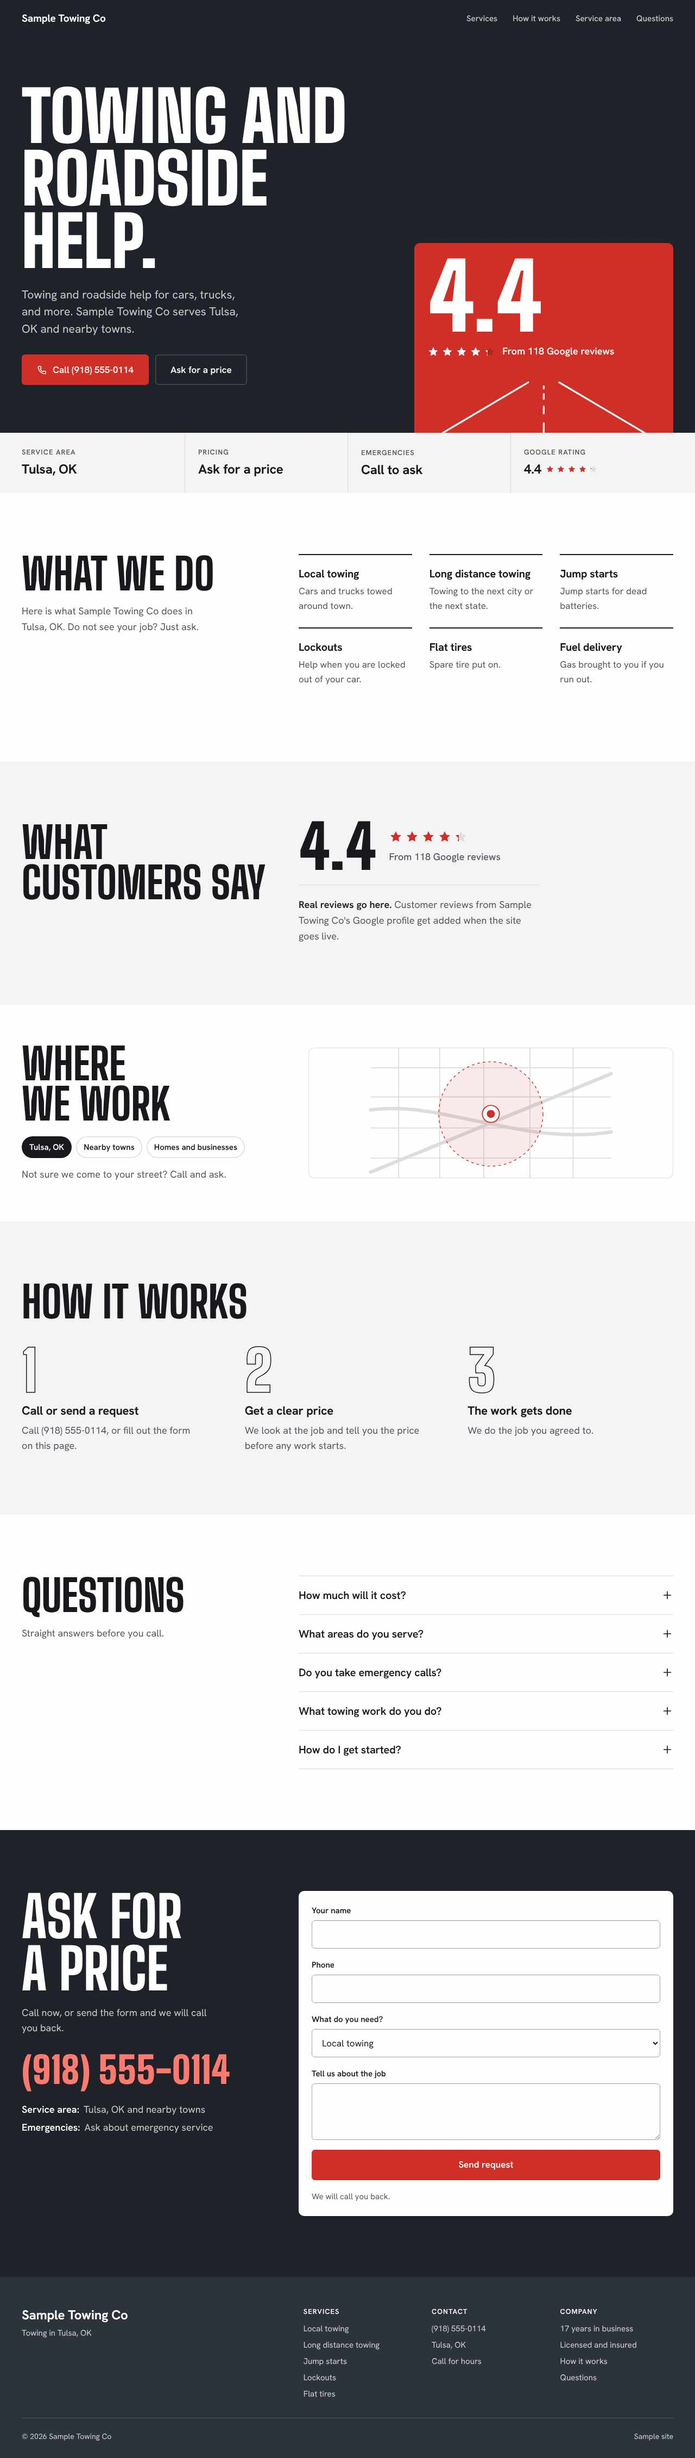
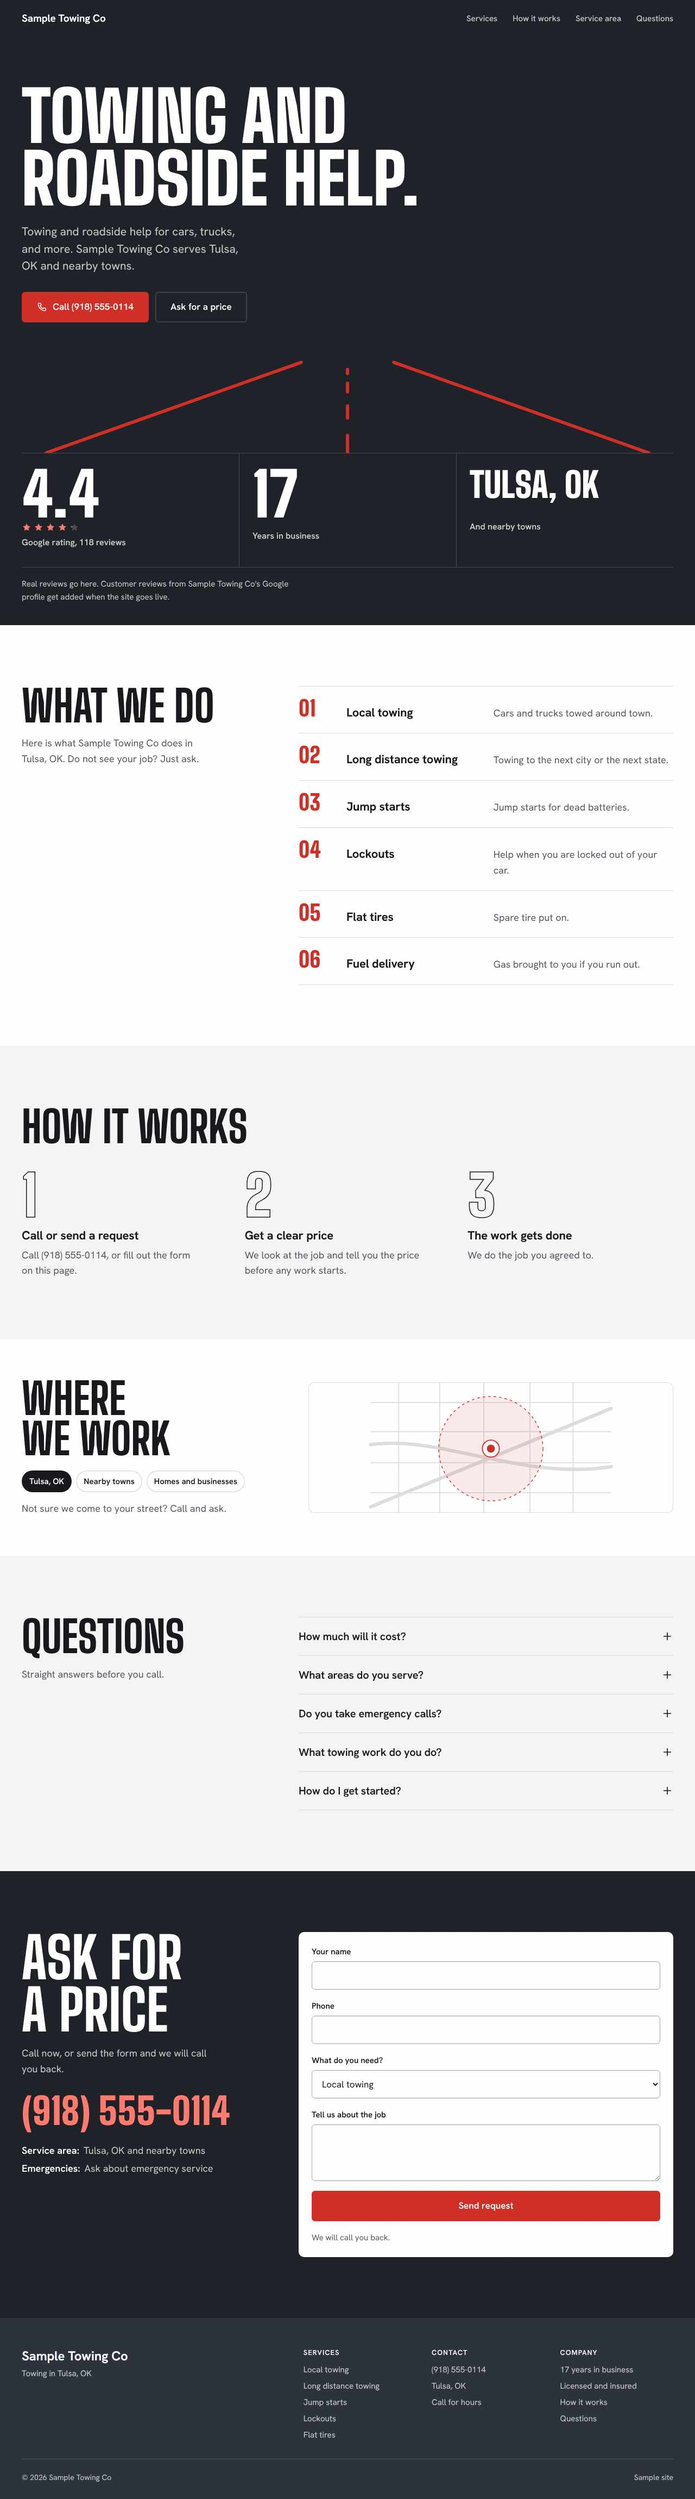
Sample Site Maker: call bar hidden on first screen, ledger layout for towing and junk, rating shown once
The phone call bar is now hidden by default in CSS and only slides in
after the hero call button scrolls away, so the first screen shows one
call button with or without JavaScript. New ledger layout (stat figures
under a full-width road or trade drawing, numbered service rows, no
trust bar) for towing and junk removal. The rating is shown in one place
only. Tests add viewport-only 375x667 first-screen checks (with and
without JavaScript) and a rating-shown-once check.

Claude-Session: https://claude.ai/code/session_01Cu4Qz6VVRtcxi4Hcn3ayhX

diff --git a/sitemaker/maker.html b/sitemaker/maker.html
@@ -185,7 +185,7 @@ details.lead[open]{display:grid;gap:10px}
 // Each trade: label, noun (what the business is called), icon (inline SVG
 // inner markup, 24x24, stroke-based), headline + sub copy, default theme,
 // line (the trade's signature line drawing for the hero, viewBox 0 0 1200 300),
-// layout (hero and section layout: band, split or stat), fill (draw the line
+// layout (hero and section layout: band, split, stat or ledger), fill (draw the line
 // as a solid shape), prompt (a Higgsfield prompt for a hero picture: no people, no text),
 // optional freeEstimates: false (turns that default off; 24/7 is off for
 // every trade), words to match a lead's category, and
@@ -498,7 +498,7 @@ const TRADES = {
     sub: "Junk, furniture, and debris removal for homes and businesses.",
     theme: "navy",
     line: "M300 270 H700 V170 H300 Z M380 170 V90 H620 V170 M760 270 H1000 V200 H760 Z",
-    layout: "stat",
+    layout: "ledger",
     prompt: "An empty, clean, swept garage with a bare concrete floor and the door open, bright daylight. Wide 16:9 photo, natural light, calm and clean, with open, darker space on the left side for a headline. No people, no faces, no hands, no text, no letters, no logos, no signs, no watermarks, no vehicles with writing.",
     emergency: false,
     freeEstimates: false,
@@ -547,7 +547,7 @@ const TRADES = {
     sub: "Towing and roadside help for cars, trucks, and more.",
     theme: "steel",
     line: "M80 300 L520 40 M1120 300 L680 40 M600 300 V250 M600 200 V165 M600 125 V100 M600 72 V60",
-    layout: "stat",
+    layout: "ledger",
     prompt: "An empty two-lane highway at dusk with soft road lights, a long straight road toward the horizon, no vehicles. Wide 16:9 photo, natural light, calm and clean, with open, darker space on the left side for a headline. No people, no faces, no hands, no text, no letters, no logos, no signs, no watermarks, no vehicles with writing.",
     emergency: false,
     freeEstimates: false,
@@ -712,6 +712,7 @@ const ICON_PLUS = '<path d="M12 5v14M5 12h14"/>';
 // Section order and style per layout, so trades do not look like clones.
 const LAYOUTS = {
   band: { order: ["services", "process", "reviews", "area", "faq"], services: "list", trust: "dark" },
+  ledger: { order: ["services", "process", "area", "faq"], services: "numbered", trust: null },
   split: { order: ["process", "services", "reviews", "faq", "area"], services: "columns", trust: "paper" },
   stat: { order: ["services", "reviews", "area", "process", "faq"], services: "columns", trust: "tint" },
 };
@@ -754,18 +755,16 @@ function generateSite(form) {
     ["Pricing", d.freeEstimates ? "Free estimates" : "Ask for a price"],
     ["Emergencies", d.emergency ? "Open 24/7" : "Call to ask"],
   ];
-  if (d.rating) cells.push(["Google rating", `${d.rating.toFixed(1)} ${stars(d.rating, 16)}`, true]);
-  else if (d.years) cells.push(["In business", `${d.years} year${d.years === 1 ? "" : "s"}`]);
+  if (d.years) cells.push(["In business", `${d.years} year${d.years === 1 ? "" : "s"}`]);
   else if (d.insured) cells.push(["Coverage", "Licensed and insured"]);
   else cells.push(["Phone", d.phone ? phoneShow : "Call us"]);
-  const trust = `<section class="trust trust-${L.trust}" aria-label="At a glance"><div class="wrap"><dl>${cells.map(([k, v, raw]) => `<div class="cell rv"><dt>${k}</dt><dd>${raw ? v : esc(v)}</dd></div>`).join("")}</dl></div></section>`;
+  const trust = !L.trust ? "" : `<section class="trust trust-${L.trust}" aria-label="At a glance"><div class="wrap"><dl>${cells.map(([k, v, raw]) => `<div class="cell rv"><dt>${k}</dt><dd>${raw ? v : esc(v)}</dd></div>`).join("")}</dl></div></section>`;
 
   // Hero
   let stat;
-  if (d.rating) stat = [d.rating.toFixed(1), stars(d.rating, 22) + `<span>${d.reviews ? `From ${d.reviews.toLocaleString("en-US")} Google reviews` : "Google rating"}</span>`];
-  else if (d.emergency) stat = ["24/7", "<span>Open for emergencies</span>"];
+  if (d.emergency) stat = ["24/7", "<span>Open for emergencies</span>"];
   else if (d.years) stat = [String(d.years), `<span>Year${d.years === 1 ? "" : "s"} in business</span>`];
-  else if (d.freeEstimates) stat = ["Free", "<span>Estimates on every job</span>"];
+  else if (d.freeEstimates) stat = ["Free", "<span>Estimates</span>"];
   else stat = [area || "Local", `<span>${area ? "Our home base" : "Serving your area"}</span>`];
   const statBig = stat[0].length > 6 ? " long" : "";
 
@@ -782,6 +781,16 @@ function generateSite(form) {
       <div class="panel-art">${shape("art").replace('xMidYMax meet', 'xMidYMax slice')}</div>
       <div class="panel-body"><p class="panel-k">${d.freeEstimates ? "Free estimates" : "Prices before work starts"}</p><p class="panel-v">${d.phone ? phoneShow : "Phone number here"}</p><p class="panel-n">${d.emergency ? "Open 24 hours" : area ? `Serving ${area}` : "Serving your area"}</p></div>
     </aside></div>`;
+  } else if (lay === "ledger") {
+    const figs = [];
+    if (d.rating) figs.push([d.rating.toFixed(1), `${stars(d.rating, 18)}<span>${d.reviews ? `Google rating, ${d.reviews.toLocaleString("en-US")} reviews` : "Google rating"}</span>`]);
+    if (d.emergency) figs.push(["24/7", "<span>Open for emergencies</span>"]);
+    if (d.years) figs.push([String(d.years), `<span>Year${d.years === 1 ? "" : "s"} in business</span>`]);
+    if (d.freeEstimates) figs.push(["Free", "<span>Estimates</span>"]);
+    if (figs.length < 3) figs.push([area || "Your town", "<span>And nearby towns</span>"]);
+    if (figs.length < 3) figs.push([d.phone ? phoneShow : "Call", `<span>${d.phone ? "Call any time we are open" : "Call to ask"}</span>`]);
+    heroInner = `<div class="wrap ledger-top">${heroText}</div>${shape("ledger-art").replace("xMidYMax meet", "none")}
+    <div class="wrap"><dl class="figures">${figs.slice(0, 3).map(([v, k]) => `<div class="fig rv"><dt${v.length > 5 ? ' class="long"' : ""}>${esc(v)}</dt><dd>${k}</dd></div>`).join("")}</dl>${d.rating ? `<p class="fig-note">Real reviews go here. Customer reviews from ${name}'s Google profile get added when the site goes live.</p>` : ""}</div>`;
   } else if (lay === "stat") {
     heroInner = `<div class="wrap hero-grid">${heroText}<aside class="stat" aria-label="At a glance">
       <p class="stat-v${statBig}">${esc(stat[0])}</p><div class="stat-k">${stat[1]}</div>
@@ -793,7 +802,9 @@ function generateSite(form) {
   const heroSec = `<section class="hero hero-${hero ? "photo" : lay}" aria-label="Intro">${heroInner}</section>`;
 
   // Sections
-  const services = L.services === "list"
+  const services = L.services === "numbered"
+    ? `<ol class="svcs-num">${d.services.map(([n, desc], i) => `<li class="rv" style="--i:${i % 3}"><span class="num" aria-hidden="true">${String(i + 1).padStart(2, "0")}</span><h3>${esc(n)}</h3><p>${esc(desc)}</p></li>`).join("")}</ol>`
+    : L.services === "list"
     ? `<ul class="svcs-list">${d.services.map(([n, desc], i) => `<li class="rv" style="--i:${i}"><a href="#contact"><span class="svc-name">${esc(n)}</span><span class="svc-desc">${esc(desc)}</span><span class="svc-go">${svg(ICON_ARROW, 20)}</span></a></li>`).join("")}</ul>`
     : `<ul class="svcs-cols">${d.services.map(([n, desc], i) => `<li class="rv" style="--i:${i % 3}"><h3>${esc(n)}</h3><p>${esc(desc)}</p></li>`).join("")}</ul>`;
   const steps = [
@@ -930,6 +941,24 @@ a:focus-visible,button:focus-visible,summary:focus-visible{outline:3px solid var
 .hero-photo img{position:absolute;inset:0;z-index:-2;width:100%;height:100%;object-fit:cover}
 .hero-photo::before{content:"";position:absolute;inset:0;z-index:-1;background:linear-gradient(0deg,rgba(0,0,0,.82) 0%,rgba(0,0,0,.5) 55%,rgba(0,0,0,.38) 100%),linear-gradient(90deg,rgba(0,0,0,.35),rgba(0,0,0,0) 70%)}
 .hero-photo .hero-sub{color:rgba(255,255,255,.9)}
+.ledger-top{display:grid;gap:0}
+.ledger-art{display:block;width:100%;height:clamp(110px,15vw,200px)}
+.ledger-art path{vector-effect:non-scaling-stroke;stroke-width:6}
+.figures{display:grid;grid-template-columns:1fr;border-top:1px solid var(--rule-dark)}
+.fig{display:grid;grid-template-columns:auto 1fr;align-items:center;gap:4px 18px;padding:18px 0;border-bottom:1px solid var(--rule-dark)}
+.fig dt{font:900 clamp(56px,9vw,112px)/.85 var(--display);text-transform:uppercase;color:var(--on-dark);font-variant-numeric:tabular-nums;overflow-wrap:anywhere}
+.fig dt.long{font-size:clamp(40px,5vw,64px);line-height:.95}
+.fig dd{display:grid;gap:6px;color:var(--on-dark-2);font-weight:600;font-size:16px}
+.fig .stars{color:var(--hi)}
+.fig .stars-row.off{color:var(--rule-dark)}
+.fig-note{padding:18px 0 40px;color:var(--on-dark-2);font-size:15px;max-width:60ch}
+.hero-ledger .wrap:last-child{padding-bottom:0}
+.svcs-num{list-style:none;margin:0;padding:0;counter-reset:n}
+.svcs-num li{display:grid;grid-template-columns:56px 1fr;gap:2px 16px;padding:22px 0;border-top:1px solid var(--line)}
+.svcs-num li:last-child{border-bottom:1px solid var(--line)}
+.svcs-num .num{grid-row:1/3;font:900 40px/.9 var(--display);color:var(--accent);font-variant-numeric:tabular-nums}
+.svcs-num h3{font-size:22px}
+.svcs-num p{color:var(--muted)}
 /* trust bar */
 .trust dl{display:grid;grid-template-columns:1fr 1fr}
 .cell{padding:22px 16px 24px 0}
@@ -1020,7 +1049,8 @@ footer .wrap{display:grid;gap:32px;padding-block:56px 28px}
 .foot-base{display:flex;flex-wrap:wrap;justify-content:space-between;gap:8px 24px;padding-top:22px;border-top:1px solid var(--rule-dark);font-size:14px}
 .mobile-call{position:fixed;left:0;right:0;bottom:0;z-index:30;padding:10px max(12px,env(safe-area-inset-right,0px)) calc(10px + env(safe-area-inset-bottom,0px)) max(12px,env(safe-area-inset-left,0px));background:var(--dark);box-shadow:0 -8px 24px rgba(0,0,0,.16);transition:transform .45s var(--ease)}
 .mobile-call .btn{width:100%}
-.js:not(.past) .mobile-call{transform:translateY(110%)}
+.mobile-call{transform:translateY(110%);visibility:hidden}
+.past .mobile-call{transform:none;visibility:visible}
 /* motion: only when allowed; everything is visible without it */
 @media (prefers-reduced-motion:no-preference){
   .motion .rv{transition:opacity .9s var(--ease),transform .9s var(--ease);transition-delay:calc(var(--i,0) * 70ms)}
@@ -1037,6 +1067,9 @@ footer .wrap{display:grid;gap:32px;padding-block:56px 28px}
   .grid>.head{grid-column:1/span 5}
   .grid>.body{grid-column:6/span 7}
   .svcs-cols{grid-template-columns:1fr 1fr}
+  .figures{grid-template-columns:repeat(3,1fr);border-bottom:1px solid var(--rule-dark)}
+  .fig{grid-template-columns:1fr;align-items:start;padding:28px 24px 32px;border-bottom:0;border-left:1px solid var(--rule-dark)}
+  .fig:first-child{padding-left:0;border-left:0}
   .steps{grid-template-columns:repeat(3,1fr);gap:32px}
   .area{grid-template-columns:5fr 7fr;gap:48px}
   .foot-cols{grid-template-columns:repeat(3,1fr)}
@@ -1061,6 +1094,9 @@ footer .wrap{display:grid;gap:32px;padding-block:56px 28px}
   .hero-photo .wrap{padding-top:260px}
   .hero-photo .hero-text{max-width:820px}
   .svcs-cols{grid-template-columns:repeat(3,1fr)}
+  .ledger-top .hero-text{padding-bottom:48px}
+  .svcs-num li{grid-template-columns:72px 1fr 1.3fr;align-items:baseline}
+  .svcs-num .num{grid-row:auto}
   .grid>.head .sticky{position:sticky;top:120px}
   footer .wrap{grid-template-columns:5fr 7fr;align-items:start}
   .foot-base{grid-column:1/-1}

diff --git a/sitemaker/src/generate.js b/sitemaker/src/generate.js
@@ -87,6 +87,7 @@ const ICON_PLUS = '<path d="M12 5v14M5 12h14"/>';
 // Section order and style per layout, so trades do not look like clones.
 const LAYOUTS = {
   band: { order: ["services", "process", "reviews", "area", "faq"], services: "list", trust: "dark" },
+  ledger: { order: ["services", "process", "area", "faq"], services: "numbered", trust: null },
   split: { order: ["process", "services", "reviews", "faq", "area"], services: "columns", trust: "paper" },
   stat: { order: ["services", "reviews", "area", "process", "faq"], services: "columns", trust: "tint" },
 };
@@ -129,18 +130,16 @@ export function generateSite(form) {
     ["Pricing", d.freeEstimates ? "Free estimates" : "Ask for a price"],
     ["Emergencies", d.emergency ? "Open 24/7" : "Call to ask"],
   ];
-  if (d.rating) cells.push(["Google rating", `${d.rating.toFixed(1)} ${stars(d.rating, 16)}`, true]);
-  else if (d.years) cells.push(["In business", `${d.years} year${d.years === 1 ? "" : "s"}`]);
+  if (d.years) cells.push(["In business", `${d.years} year${d.years === 1 ? "" : "s"}`]);
   else if (d.insured) cells.push(["Coverage", "Licensed and insured"]);
   else cells.push(["Phone", d.phone ? phoneShow : "Call us"]);
-  const trust = `<section class="trust trust-${L.trust}" aria-label="At a glance"><div class="wrap"><dl>${cells.map(([k, v, raw]) => `<div class="cell rv"><dt>${k}</dt><dd>${raw ? v : esc(v)}</dd></div>`).join("")}</dl></div></section>`;
+  const trust = !L.trust ? "" : `<section class="trust trust-${L.trust}" aria-label="At a glance"><div class="wrap"><dl>${cells.map(([k, v, raw]) => `<div class="cell rv"><dt>${k}</dt><dd>${raw ? v : esc(v)}</dd></div>`).join("")}</dl></div></section>`;
 
   // Hero
   let stat;
-  if (d.rating) stat = [d.rating.toFixed(1), stars(d.rating, 22) + `<span>${d.reviews ? `From ${d.reviews.toLocaleString("en-US")} Google reviews` : "Google rating"}</span>`];
-  else if (d.emergency) stat = ["24/7", "<span>Open for emergencies</span>"];
+  if (d.emergency) stat = ["24/7", "<span>Open for emergencies</span>"];
   else if (d.years) stat = [String(d.years), `<span>Year${d.years === 1 ? "" : "s"} in business</span>`];
-  else if (d.freeEstimates) stat = ["Free", "<span>Estimates on every job</span>"];
+  else if (d.freeEstimates) stat = ["Free", "<span>Estimates</span>"];
   else stat = [area || "Local", `<span>${area ? "Our home base" : "Serving your area"}</span>`];
   const statBig = stat[0].length > 6 ? " long" : "";
 
@@ -157,6 +156,16 @@ export function generateSite(form) {
       <div class="panel-art">${shape("art").replace('xMidYMax meet', 'xMidYMax slice')}</div>
       <div class="panel-body"><p class="panel-k">${d.freeEstimates ? "Free estimates" : "Prices before work starts"}</p><p class="panel-v">${d.phone ? phoneShow : "Phone number here"}</p><p class="panel-n">${d.emergency ? "Open 24 hours" : area ? `Serving ${area}` : "Serving your area"}</p></div>
     </aside></div>`;
+  } else if (lay === "ledger") {
+    const figs = [];
+    if (d.rating) figs.push([d.rating.toFixed(1), `${stars(d.rating, 18)}<span>${d.reviews ? `Google rating, ${d.reviews.toLocaleString("en-US")} reviews` : "Google rating"}</span>`]);
+    if (d.emergency) figs.push(["24/7", "<span>Open for emergencies</span>"]);
+    if (d.years) figs.push([String(d.years), `<span>Year${d.years === 1 ? "" : "s"} in business</span>`]);
+    if (d.freeEstimates) figs.push(["Free", "<span>Estimates</span>"]);
+    if (figs.length < 3) figs.push([area || "Your town", "<span>And nearby towns</span>"]);
+    if (figs.length < 3) figs.push([d.phone ? phoneShow : "Call", `<span>${d.phone ? "Call any time we are open" : "Call to ask"}</span>`]);
+    heroInner = `<div class="wrap ledger-top">${heroText}</div>${shape("ledger-art").replace("xMidYMax meet", "none")}
+    <div class="wrap"><dl class="figures">${figs.slice(0, 3).map(([v, k]) => `<div class="fig rv"><dt${v.length > 5 ? ' class="long"' : ""}>${esc(v)}</dt><dd>${k}</dd></div>`).join("")}</dl>${d.rating ? `<p class="fig-note">Real reviews go here. Customer reviews from ${name}'s Google profile get added when the site goes live.</p>` : ""}</div>`;
   } else if (lay === "stat") {
     heroInner = `<div class="wrap hero-grid">${heroText}<aside class="stat" aria-label="At a glance">
       <p class="stat-v${statBig}">${esc(stat[0])}</p><div class="stat-k">${stat[1]}</div>
@@ -168,7 +177,9 @@ export function generateSite(form) {
   const heroSec = `<section class="hero hero-${hero ? "photo" : lay}" aria-label="Intro">${heroInner}</section>`;
 
   // Sections
-  const services = L.services === "list"
+  const services = L.services === "numbered"
+    ? `<ol class="svcs-num">${d.services.map(([n, desc], i) => `<li class="rv" style="--i:${i % 3}"><span class="num" aria-hidden="true">${String(i + 1).padStart(2, "0")}</span><h3>${esc(n)}</h3><p>${esc(desc)}</p></li>`).join("")}</ol>`
+    : L.services === "list"
     ? `<ul class="svcs-list">${d.services.map(([n, desc], i) => `<li class="rv" style="--i:${i}"><a href="#contact"><span class="svc-name">${esc(n)}</span><span class="svc-desc">${esc(desc)}</span><span class="svc-go">${svg(ICON_ARROW, 20)}</span></a></li>`).join("")}</ul>`
     : `<ul class="svcs-cols">${d.services.map(([n, desc], i) => `<li class="rv" style="--i:${i % 3}"><h3>${esc(n)}</h3><p>${esc(desc)}</p></li>`).join("")}</ul>`;
   const steps = [
@@ -305,6 +316,24 @@ a:focus-visible,button:focus-visible,summary:focus-visible{outline:3px solid var
 .hero-photo img{position:absolute;inset:0;z-index:-2;width:100%;height:100%;object-fit:cover}
 .hero-photo::before{content:"";position:absolute;inset:0;z-index:-1;background:linear-gradient(0deg,rgba(0,0,0,.82) 0%,rgba(0,0,0,.5) 55%,rgba(0,0,0,.38) 100%),linear-gradient(90deg,rgba(0,0,0,.35),rgba(0,0,0,0) 70%)}
 .hero-photo .hero-sub{color:rgba(255,255,255,.9)}
+.ledger-top{display:grid;gap:0}
+.ledger-art{display:block;width:100%;height:clamp(110px,15vw,200px)}
+.ledger-art path{vector-effect:non-scaling-stroke;stroke-width:6}
+.figures{display:grid;grid-template-columns:1fr;border-top:1px solid var(--rule-dark)}
+.fig{display:grid;grid-template-columns:auto 1fr;align-items:center;gap:4px 18px;padding:18px 0;border-bottom:1px solid var(--rule-dark)}
+.fig dt{font:900 clamp(56px,9vw,112px)/.85 var(--display);text-transform:uppercase;color:var(--on-dark);font-variant-numeric:tabular-nums;overflow-wrap:anywhere}
+.fig dt.long{font-size:clamp(40px,5vw,64px);line-height:.95}
+.fig dd{display:grid;gap:6px;color:var(--on-dark-2);font-weight:600;font-size:16px}
+.fig .stars{color:var(--hi)}
+.fig .stars-row.off{color:var(--rule-dark)}
+.fig-note{padding:18px 0 40px;color:var(--on-dark-2);font-size:15px;max-width:60ch}
+.hero-ledger .wrap:last-child{padding-bottom:0}
+.svcs-num{list-style:none;margin:0;padding:0;counter-reset:n}
+.svcs-num li{display:grid;grid-template-columns:56px 1fr;gap:2px 16px;padding:22px 0;border-top:1px solid var(--line)}
+.svcs-num li:last-child{border-bottom:1px solid var(--line)}
+.svcs-num .num{grid-row:1/3;font:900 40px/.9 var(--display);color:var(--accent);font-variant-numeric:tabular-nums}
+.svcs-num h3{font-size:22px}
+.svcs-num p{color:var(--muted)}
 /* trust bar */
 .trust dl{display:grid;grid-template-columns:1fr 1fr}
 .cell{padding:22px 16px 24px 0}
@@ -395,7 +424,8 @@ footer .wrap{display:grid;gap:32px;padding-block:56px 28px}
 .foot-base{display:flex;flex-wrap:wrap;justify-content:space-between;gap:8px 24px;padding-top:22px;border-top:1px solid var(--rule-dark);font-size:14px}
 .mobile-call{position:fixed;left:0;right:0;bottom:0;z-index:30;padding:10px max(12px,env(safe-area-inset-right,0px)) calc(10px + env(safe-area-inset-bottom,0px)) max(12px,env(safe-area-inset-left,0px));background:var(--dark);box-shadow:0 -8px 24px rgba(0,0,0,.16);transition:transform .45s var(--ease)}
 .mobile-call .btn{width:100%}
-.js:not(.past) .mobile-call{transform:translateY(110%)}
+.mobile-call{transform:translateY(110%);visibility:hidden}
+.past .mobile-call{transform:none;visibility:visible}
 /* motion: only when allowed; everything is visible without it */
 @media (prefers-reduced-motion:no-preference){
   .motion .rv{transition:opacity .9s var(--ease),transform .9s var(--ease);transition-delay:calc(var(--i,0) * 70ms)}
@@ -412,6 +442,9 @@ footer .wrap{display:grid;gap:32px;padding-block:56px 28px}
   .grid>.head{grid-column:1/span 5}
   .grid>.body{grid-column:6/span 7}
   .svcs-cols{grid-template-columns:1fr 1fr}
+  .figures{grid-template-columns:repeat(3,1fr);border-bottom:1px solid var(--rule-dark)}
+  .fig{grid-template-columns:1fr;align-items:start;padding:28px 24px 32px;border-bottom:0;border-left:1px solid var(--rule-dark)}
+  .fig:first-child{padding-left:0;border-left:0}
   .steps{grid-template-columns:repeat(3,1fr);gap:32px}
   .area{grid-template-columns:5fr 7fr;gap:48px}
   .foot-cols{grid-template-columns:repeat(3,1fr)}
@@ -436,6 +469,9 @@ footer .wrap{display:grid;gap:32px;padding-block:56px 28px}
   .hero-photo .wrap{padding-top:260px}
   .hero-photo .hero-text{max-width:820px}
   .svcs-cols{grid-template-columns:repeat(3,1fr)}
+  .ledger-top .hero-text{padding-bottom:48px}
+  .svcs-num li{grid-template-columns:72px 1fr 1.3fr;align-items:baseline}
+  .svcs-num .num{grid-row:auto}
   .grid>.head .sticky{position:sticky;top:120px}
   footer .wrap{grid-template-columns:5fr 7fr;align-items:start}
   .foot-base{grid-column:1/-1}

diff --git a/sitemaker/src/trades.js b/sitemaker/src/trades.js
@@ -2,7 +2,7 @@
 // Each trade: label, noun (what the business is called), icon (inline SVG
 // inner markup, 24x24, stroke-based), headline + sub copy, default theme,
 // line (the trade's signature line drawing for the hero, viewBox 0 0 1200 300),
-// layout (hero and section layout: band, split or stat), fill (draw the line
+// layout (hero and section layout: band, split, stat or ledger), fill (draw the line
 // as a solid shape), prompt (a Higgsfield prompt for a hero picture: no people, no text),
 // optional freeEstimates: false (turns that default off; 24/7 is off for
 // every trade), words to match a lead's category, and
@@ -315,7 +315,7 @@ export const TRADES = {
     sub: "Junk, furniture, and debris removal for homes and businesses.",
     theme: "navy",
     line: "M300 270 H700 V170 H300 Z M380 170 V90 H620 V170 M760 270 H1000 V200 H760 Z",
-    layout: "stat",
+    layout: "ledger",
     prompt: "An empty, clean, swept garage with a bare concrete floor and the door open, bright daylight. Wide 16:9 photo, natural light, calm and clean, with open, darker space on the left side for a headline. No people, no faces, no hands, no text, no letters, no logos, no signs, no watermarks, no vehicles with writing.",
     emergency: false,
     freeEstimates: false,
@@ -364,7 +364,7 @@ export const TRADES = {
     sub: "Towing and roadside help for cars, trucks, and more.",
     theme: "steel",
     line: "M80 300 L520 40 M1120 300 L680 40 M600 300 V250 M600 200 V165 M600 125 V100 M600 72 V60",
-    layout: "stat",
+    layout: "ledger",
     prompt: "An empty two-lane highway at dusk with soft road lights, a long straight road toward the horizon, no vehicles. Wide 16:9 photo, natural light, calm and clean, with open, darker space on the left side for a headline. No people, no faces, no hands, no text, no letters, no logos, no signs, no watermarks, no vehicles with writing.",
     emergency: false,
     freeEstimates: false,
